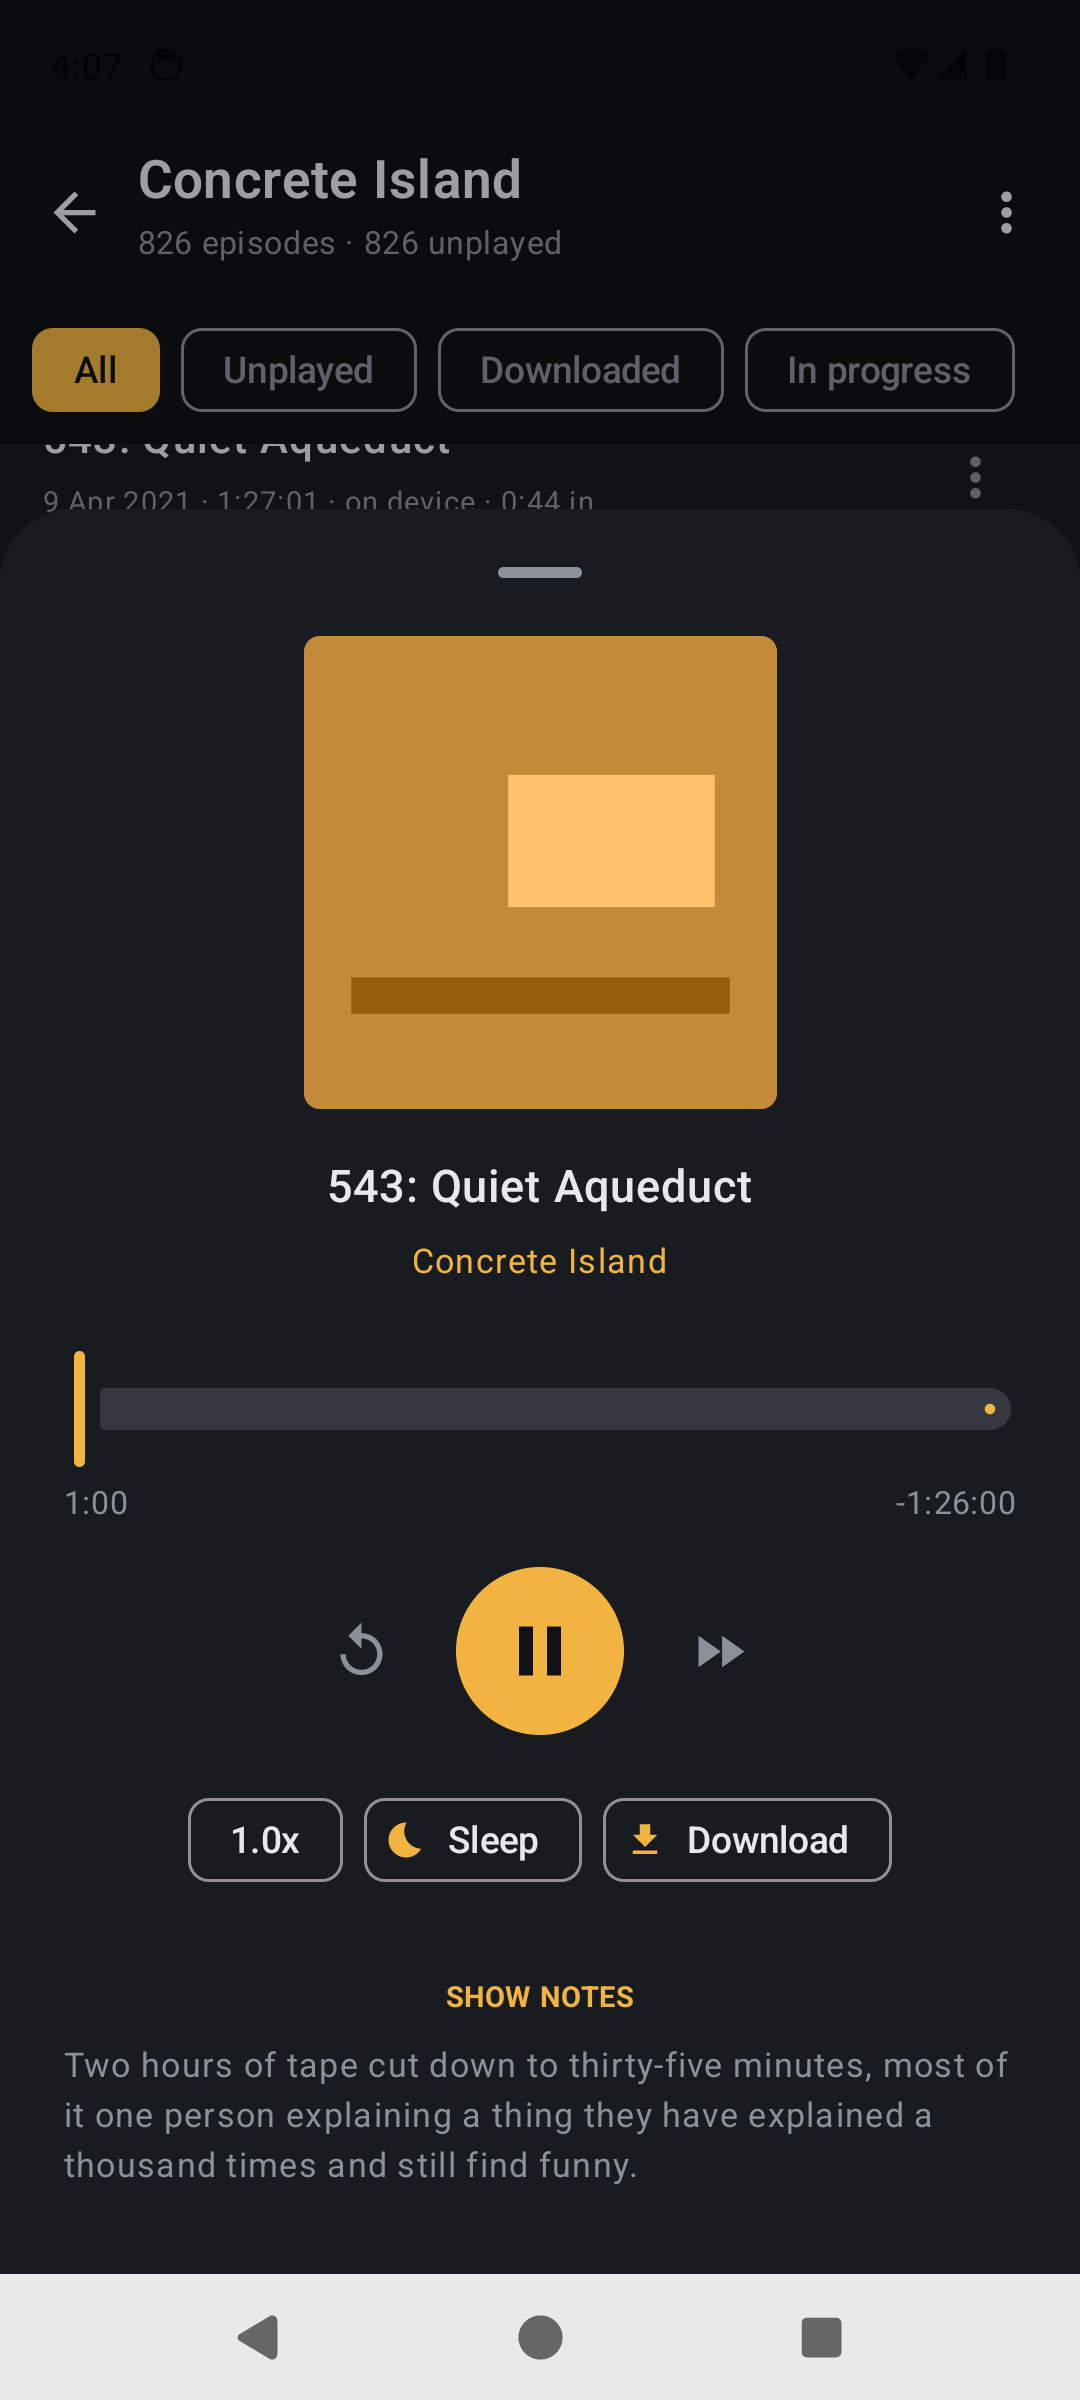
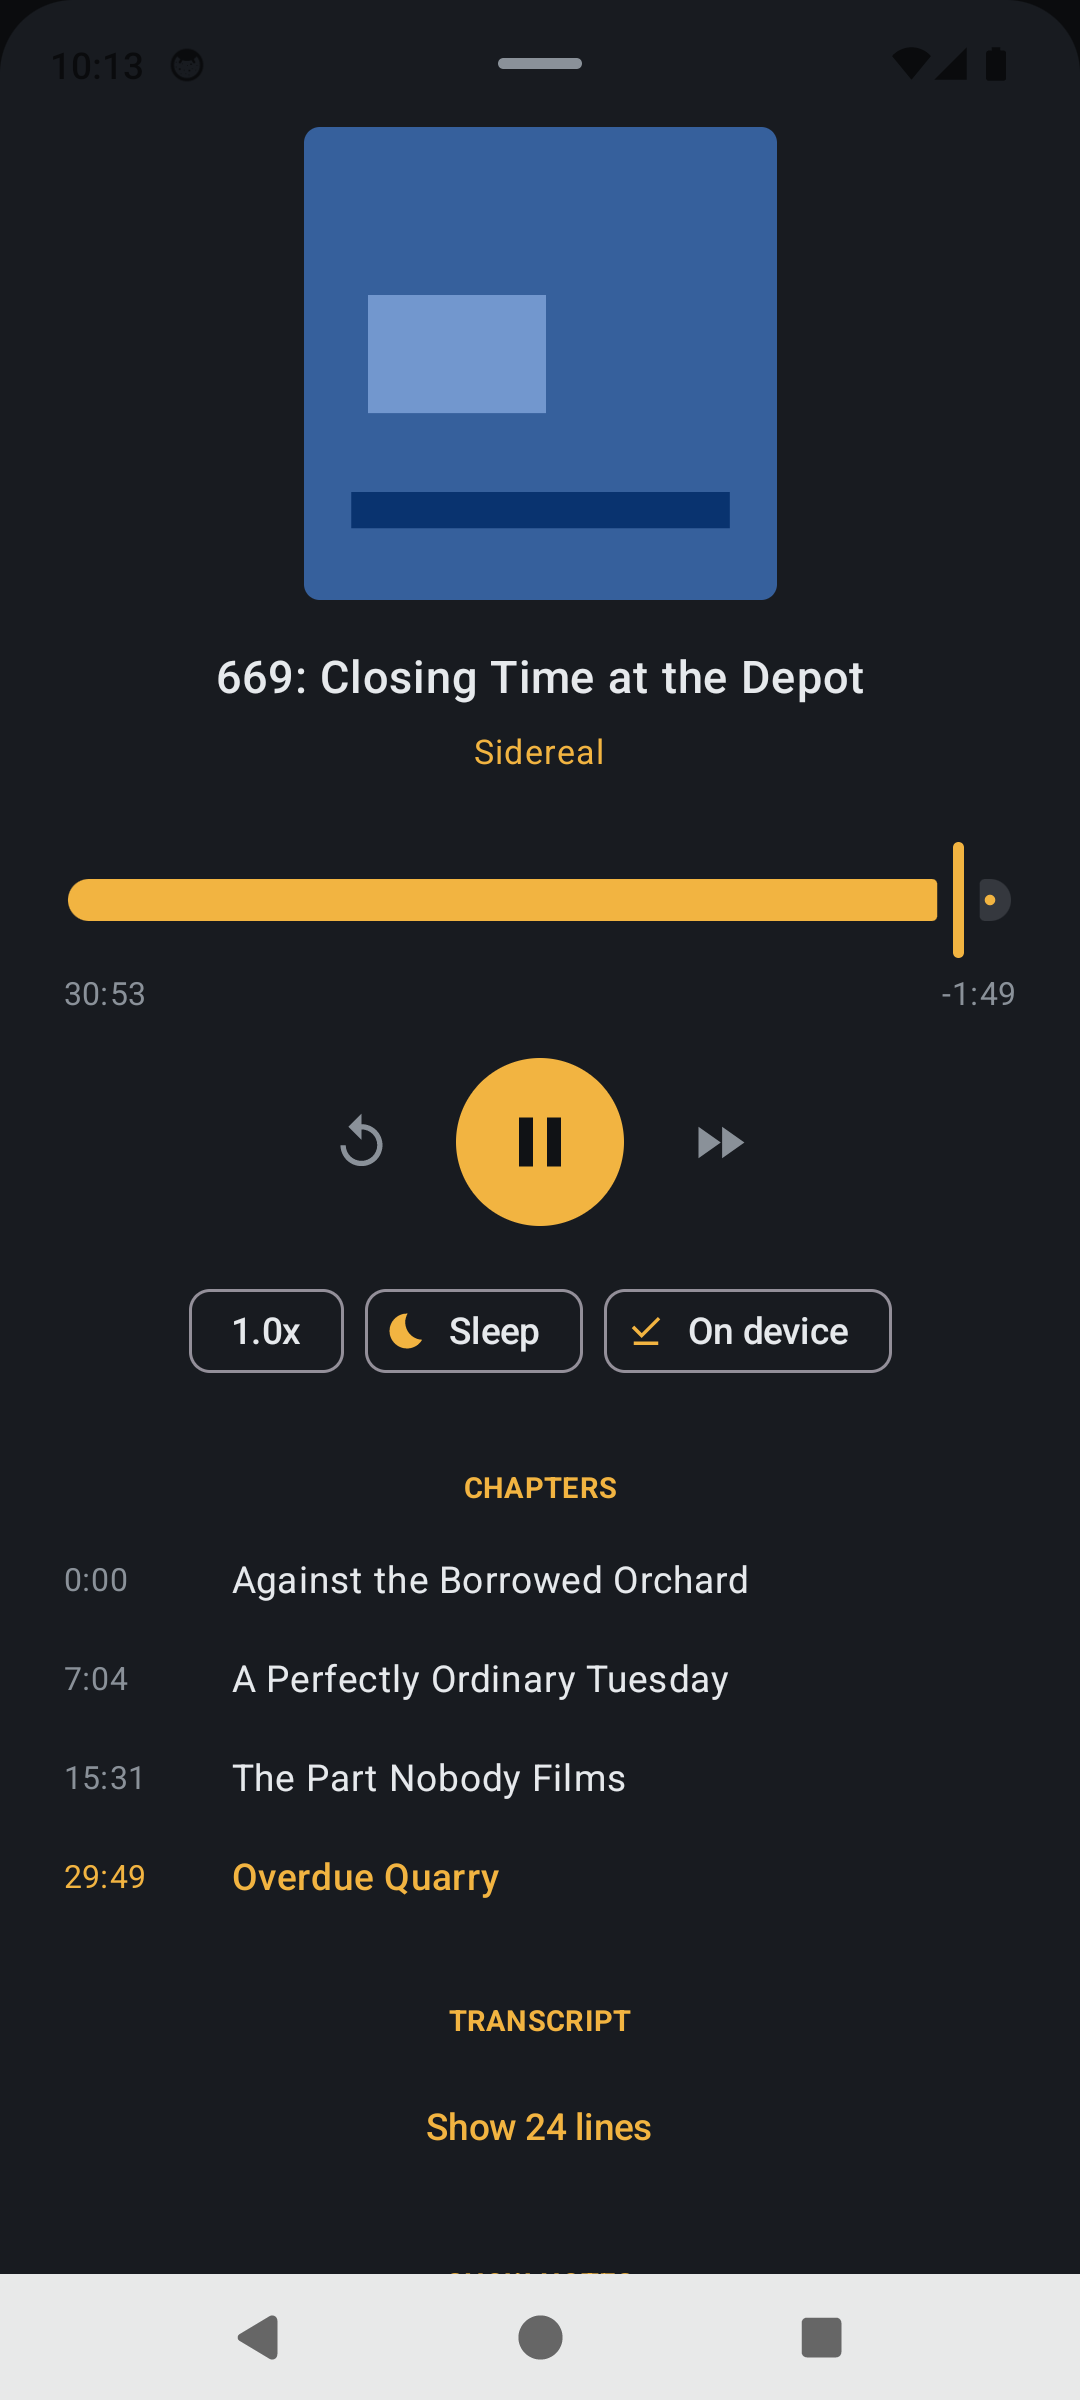
Correct three screenshots, and the two defects behind them
Reviewing every screenshot before making the repo public turned up three
that misrepresented the app, two because of real bugs:

- The player sheet renders from its own Episode value rather than
  re-reading, so a finished download left it still offering "Download"
  while the row behind already said "on device". reload() now refreshes
  nowPlaying, which fixes the chip after a download, a delete or a
  mark-played.
- demo_feeds.py sent Cache-Control: no-store on everything, including the
  cover art, which forbade Coil from caching it. The offline screenshots
  therefore had no artwork at all — the fixture breaking the cache, not the
  app failing to keep one. Art and audio are now cacheable; feeds stay
  no-store so edits to the fixture still show up.
- 08-actions was a second copy of the player sheet rather than the row
  menu, with a caption describing something it did not show.

All three retaken and verified: the chip reads "On device", the offline
cold start has full artwork, and the actions menu is the actions menu.

Also adds third-party attribution to the README. Everything Deadzone bundles
is Apache-2.0, and an APK release is a binary distribution of it.

Claude-Session: https://claude.ai/code/session_01D4TJfBM6ynszAgYhZzEKJy

diff --git a/app/src/main/java/net/sp00nz/deadzone/MainActivity.kt b/app/src/main/java/net/sp00nz/deadzone/MainActivity.kt
@@ -124,6 +124,12 @@ class Vm(app: Application) : AndroidViewModel(app) {
         episodes = withContext(Dispatchers.IO) { store.episodes(fid, filter) }
         history = withContext(Dispatchers.IO) { store.history() }
         openFeed?.let { cur -> openFeed = f.firstOrNull { it.id == cur.id } ?: cur }
+        // The player sheet renders from this value rather than re-reading, so
+        // without refreshing it a finished download leaves the sheet still
+        // offering "Download" while the row behind it already says "on device".
+        nowPlaying?.let { cur ->
+            nowPlaying = withContext(Dispatchers.IO) { store.episode(cur.id) } ?: cur
+        }
     }
 
     // ---- feeds ----

diff --git a/tools/demo_feeds.py b/tools/demo_feeds.py
@@ -233,12 +233,12 @@ class Handler(BaseHTTPRequestHandler):
             elif path.startswith("/art/"):
                 slug = path[len("/art/"):].removesuffix(".png")
                 s = next(x for x in SHOWS if x[0] == slug)
-                self.send(cover(s[5], slug), "image/png")
+                self.send(cover(s[5], slug), "image/png", cacheable=True)
             elif path.startswith("/audio/"):
                 # .../<slug>/<n>/<seconds>.wav — the length is in the URL so the file
                 # really is as long as the feed says it is.
                 secs = int(path.removesuffix(".wav").rsplit("/", 1)[1])
-                self.send(silence(min(secs, 7200)), "audio/wav")
+                self.send(silence(min(secs, 7200)), "audio/wav", cacheable=True)
             elif path.startswith("/chapters/"):
                 slug, n = path[len("/chapters/"):].removesuffix(".json").split("/")
                 self.send(chapters(slug, int(n)).encode(), "application/json")
@@ -253,12 +253,17 @@ class Handler(BaseHTTPRequestHandler):
         except StopIteration:
             self.send_error(404)
 
-    def send(self, body, content_type):
+    def send(self, body, content_type, cacheable=False):
         self.send_response(200)
         self.send_header("Content-Type", content_type)
         self.send_header("Content-Length", str(len(body)))
-        # Every request regenerates, so a cached 304 would hide edits to this file.
-        self.send_header("Cache-Control", "no-store")
+        # Artwork and audio must be cacheable or the client cannot hold them for
+        # offline use — sending no-store on the covers makes an offline library
+        # look broken when it is the fixture forbidding the cache, not the app.
+        # Feeds stay uncacheable so edits to this file show up on the next refresh.
+        self.send_header(
+            "Cache-Control", "public, max-age=86400" if cacheable else "no-store"
+        )
         self.end_headers()
         self.wfile.write(body)
 

diff --git a/README.md b/README.md
@@ -17,7 +17,7 @@ plane, or three miles up a trail with no bars. Nothing in the app waits on a net
 <td align="center"><img src="docs/screenshots/04-feed.png" width="185"><br><sub>Filter a show's back catalogue</sub></td>
 <td align="center"><img src="docs/screenshots/06-player.png" width="185"><br><sub>Speed, sleep timer, show notes</sub></td>
 <td align="center"><img src="docs/screenshots/16-chapters.png" width="185"><br><sub>Chapters, when a feed has them</sub></td>
-<td align="center"><img src="docs/screenshots/08-actions.png" width="185"><br><sub>On device, and where you got to</sub></td>
+<td align="center"><img src="docs/screenshots/08-actions.png" width="185"><br><sub>Play, queue, download, mark played</sub></td>
 </tr>
 <tr>
 <td align="center"><img src="docs/screenshots/09-history.png" width="185"><br><sub>What you finished, and when</sub></td>
@@ -29,7 +29,7 @@ plane, or three miles up a trail with no bars. Nothing in the app waits on a net
 <td align="center"><img src="docs/screenshots/15-folder-import.png" width="185"><br><sub>A mounted share, adopted</sub></td>
 <td align="center"><img src="docs/screenshots/03-search.png" width="185"><br><sub>Show notes are searched too</sub></td>
 <td align="center"><img src="docs/screenshots/02-latest.png" width="185"><br><sub>Newest across every feed</sub></td>
-<td align="center"><img src="docs/screenshots/07-downloaded.png" width="185"><br><sub>Kept for the tunnel</sub></td>
+<td align="center"><img src="docs/screenshots/07-downloaded.png" width="185"><br><sub>Downloaded, and playing from disk</sub></td>
 </tr>
 </table>
 
@@ -144,6 +144,24 @@ Nothing in this repo contains a feed URL, and nothing should. A paid feed's URL
 holding it can read your paid subscription as you. `seed/` and `*.opml` are in
 `.gitignore` for that reason. Keep your list local, or export it to somewhere private.
 
+## Built on
+
+Deadzone is a thin thing on top of other people's work. All of the below are
+Apache-2.0, and all of it ships inside the APK:
+
+| | |
+|---|---|
+| [AndroidX & Jetpack Compose](https://developer.android.com/jetpack) | UI, lifecycle, WorkManager |
+| [Media3 / ExoPlayer](https://github.com/androidx/media) | Playback, the media session, Android Auto |
+| [OkHttp](https://square.github.io/okhttp/) | Every HTTP request |
+| [Coil](https://coil-kt.github.io/coil/) | Artwork loading and caching |
+| [Kotlin](https://kotlinlang.org) & [Gradle](https://gradle.org) | Language and build |
+
+Episode discovery uses the public [iTunes Search API](https://performance-partners.apple.com/search-api).
+Feeds are read per the [RSS 2.0](https://www.rssboard.org/rss-specification) and
+[Podcasting 2.0](https://podcastindex.org/namespace/1.0) specifications.
+
 ## Licence
 
-MIT — see [LICENSE](LICENSE).
+MIT — see [LICENSE](LICENSE). The Apache-2.0 dependencies above remain under their
+own licence.
